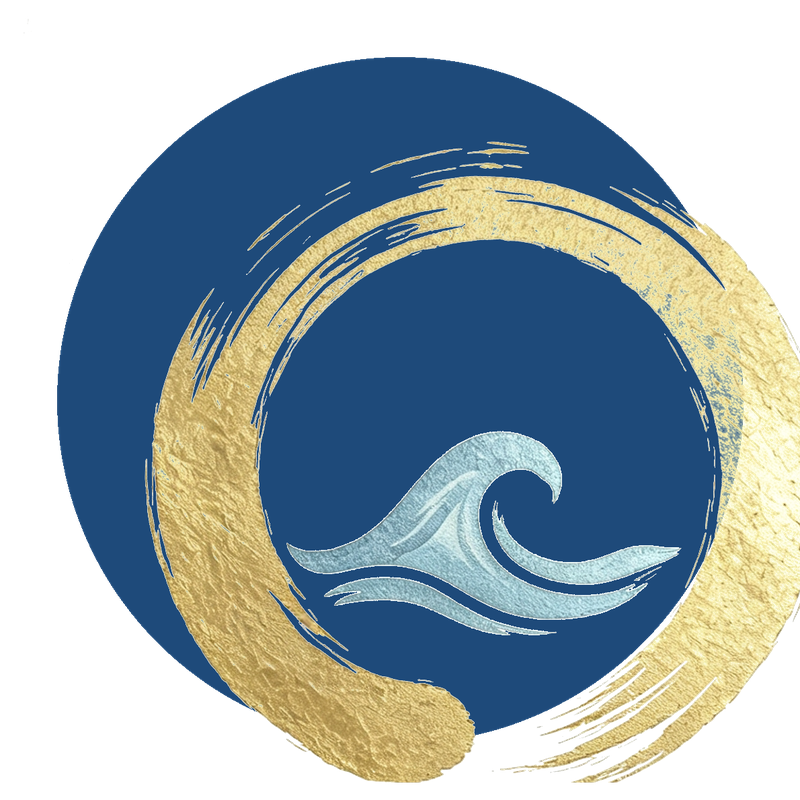
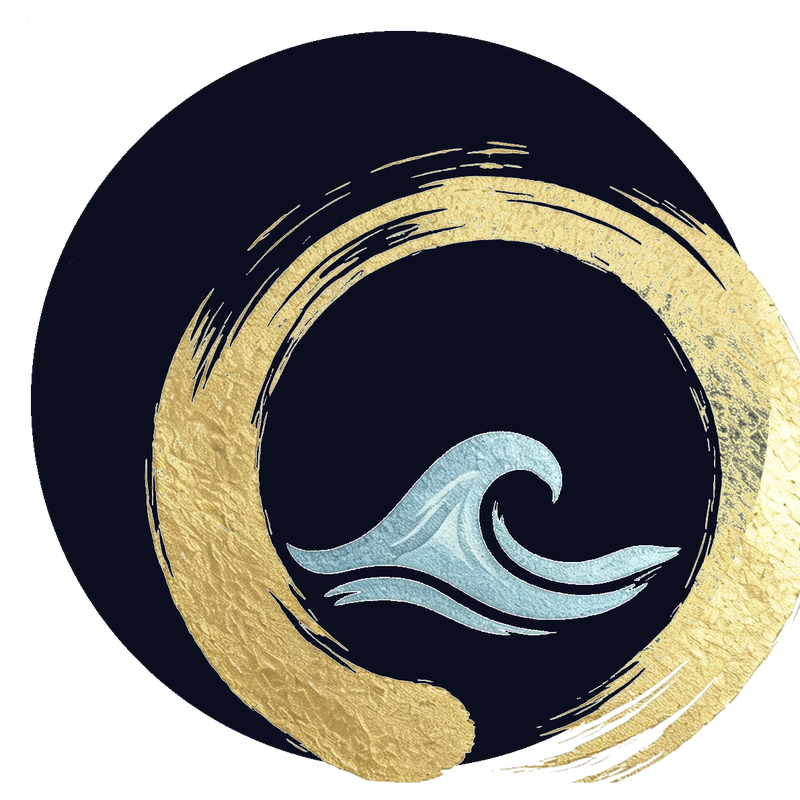
stillwave: watermark v7 — deep navy fill, ensō flush on disc
- INTERIOR_BLUE: (30,74,122) → (10,14,30) — true deep navy (#0A0E1E)
- inner_r: 0.90 → 0.97 — disc extends to ensō inner edge, no gap

Claude-Session: https://claude.ai/code/session_014rUxCAgr4C7iAmMHbP4fFt

diff --git a/stillwave/assets/stillwave-watermark-v7-compose.py b/stillwave/assets/stillwave-watermark-v7-compose.py
@@ -25,7 +25,7 @@ STAMP  = HERE / "stillwave-stamp-v7.png"
 WM     = HERE / "stillwave-watermark-v7.png"
 PREV   = HERE / "stillwave-watermark-v7-preview.jpg"
 
-INTERIOR_BLUE = (30, 74, 122)   # #1E4A7A — clearly blue, dark enough for wave contrast
+INTERIOR_BLUE = (10, 14, 30)    # deep navy — nearly #0A0E1E
 STAMP_PX      = 180
 MARGIN        = 36
 BADGE_SIZE    = 800
@@ -82,7 +82,7 @@ def build_badge() -> Image.Image:
     cx = (x0 + x1) // 2
     cy = (y0 + y1) // 2
     outer_r = min((x1 - x0), (y1 - y0)) // 2
-    inner_r = int(outer_r * 0.90)   # disc just inside ензō outer edge
+    inner_r = int(outer_r * 0.97)   # disc fills to inner edge of ензō brush
 
     disc = Image.new("RGBA", mark.size, (0, 0, 0, 0))
     ImageDraw.Draw(disc).ellipse(
